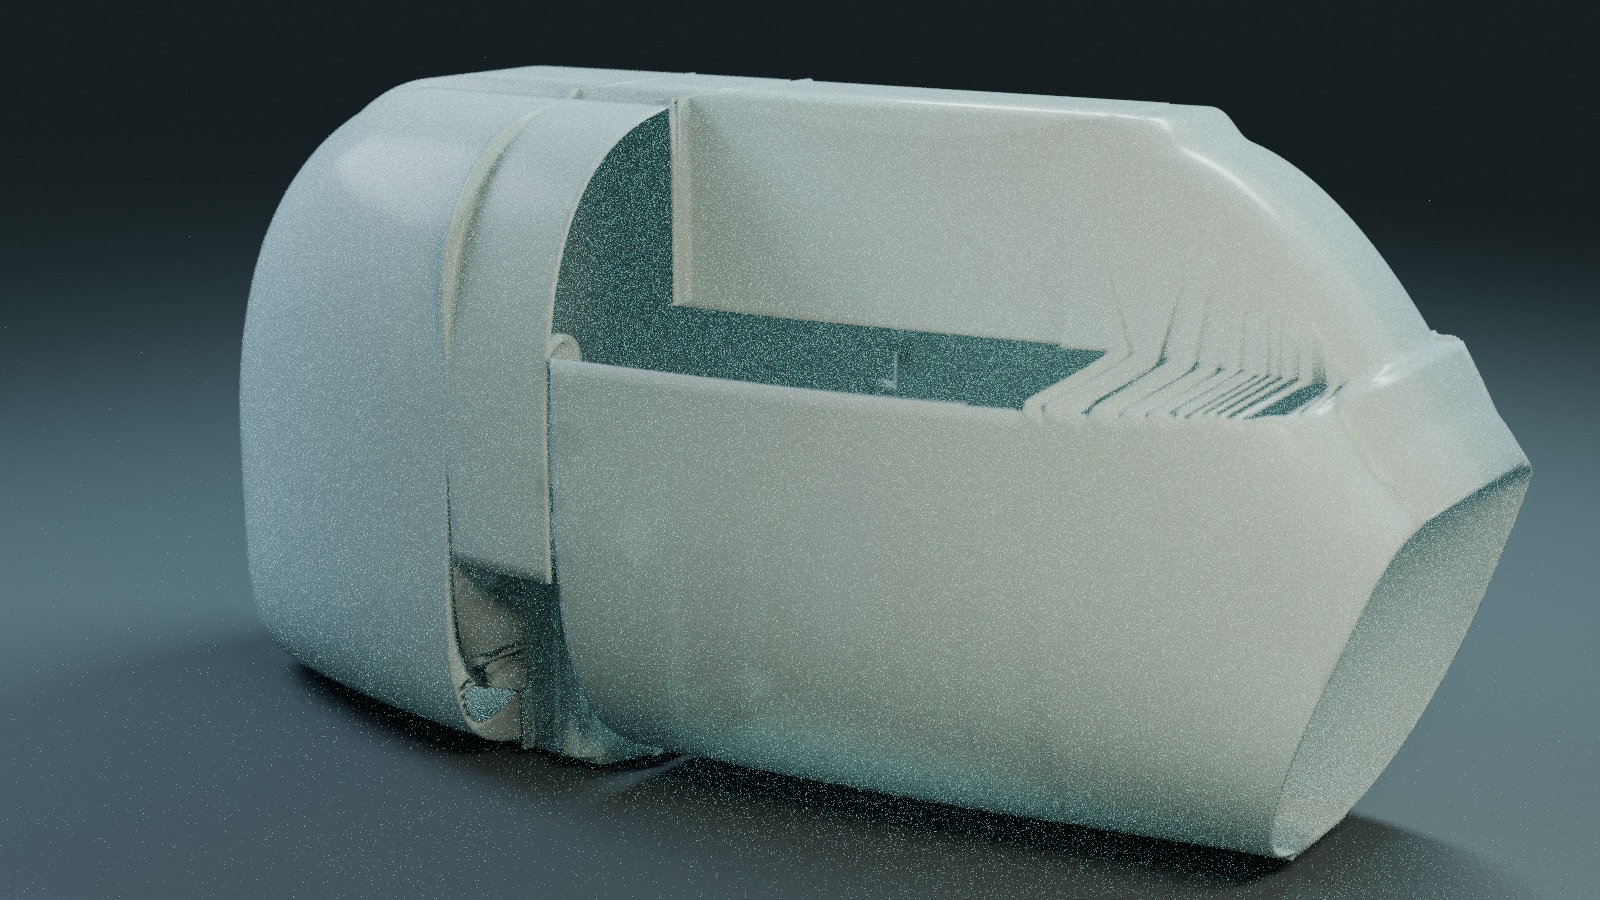
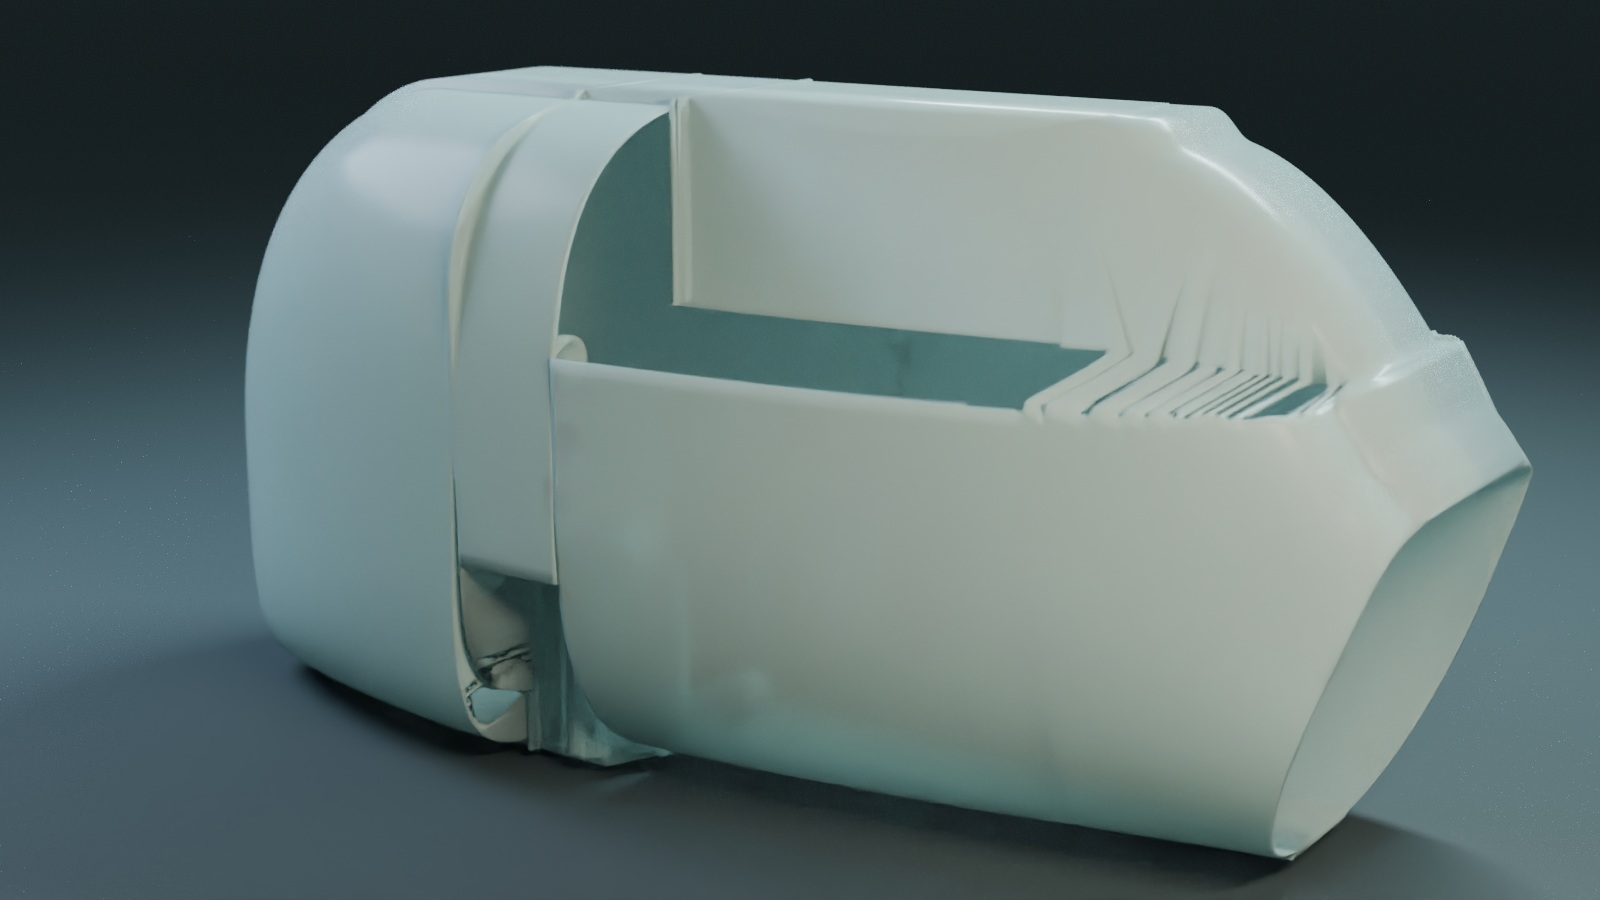
Register the printable shell halves at their mating faces

diff --git a/birth-in-water/production/shell_plate.py b/birth-in-water/production/shell_plate.py
@@ -1,5 +1,5 @@
 """From repository root: blender -b -P birth-in-water/production/shell_plate.py"""
-import bpy, math
+import bpy, math, os
 from pathlib import Path
 from mathutils import Vector, Matrix
 root = Path(__file__).resolve().parents[2]
@@ -21,7 +21,10 @@ for name,sign in [('head',1),('tail',-1)]:
  obj=bpy.context.object
  # Print Z is the length axis. Both parts were laid on their docking face.
  mat=Matrix(((0,0,sign,0),(0,-sign,0,0),(1,0,0,0),(0,0,0,1)))
- obj.matrix_world=mat @ Matrix.Diagonal(Vector((.001,.001,.001,1)))
+ # Tail alignment pins extend 4 mm closer to the print bed than the docking ring.
+ # Registration is to the ring plane; the first optical rushes used bed-plane registration.
+ offset=.004 if name=="tail" and os.getenv("BNM_PRINT_BED_ALIGNMENT")!="1" else 0
+ obj.matrix_world=Matrix.Translation((offset,0,0)) @ mat @ Matrix.Diagonal(Vector((.001,.001,.001,1)))
  obj.data.materials.append(resin)
  for poly in obj.data.polygons:poly.use_smooth=True
 bpy.ops.mesh.primitive_plane_add(size=200,location=(0,0,-.175))

diff --git a/birth-in-water/studies/camera-report.md b/birth-in-water/studies/camera-report.md
@@ -56,3 +56,11 @@ The VISAP catalogue describes touch-assisted participation and the physical/digi
 ### The touch mechanism in the later documentation
 
 The 150-second *Born, Not Made* film embedded on the artist's project page is more specific than the exhibition catalogue. At 00:44.1 the artist's annotated frame shows a hand on the mother and describes capacitive touch increasing pump drive to speed release. This is documentation of a particular touch-assisted implementation. It gives a defensible gallery label: “In this version, touch changes the pump drive.” The source supplies no pressure trace, response latency, heartbeat measurement, visitor outcome or evidence that the simple printable shell in the optical test uses the same electronics. The 2025 overhead take is separately documented as phone-initiated. Keep these material histories distinct. [Artist's project page, third embedded film](https://ruipengwang.space/born-not-made) · [VISAP catalogue](https://visap.net/2026/artwork-4.html)
+
+### Camera test for a new physical shoot
+
+In the first take the thresholded gap grows from 7 to 34 pixels in 0.30 s on a 480-pixel-wide analysis image. That average change is roughly 90 pixels/s. At that scale a 1/60 s exposure would span about 1.5 pixels of gap change during that sampled interval. This is an estimate from the existing pictures. No shutter metadata or calibrated physical velocity was recovered.
+
+Keep the uninterrupted wide camera at the gallery viewing height and show a fixed glass corner. Use a separate locked close camera pointed close to the pane normal, at the height of the mouth. For a new test, try 60 fps and 1/125 s on that camera, increasing light or opening the lens as needed. Verify focus through filled glass with a temporary scale placed at the release depth. Record that scale, then remove it before the take. Set exposure and white balance from the actual light. Test the lamps for banding at the chosen shutter before admitting visitors. The close camera can preserve more samples around the gap while the wide view holds the full duration.
+
+Before a cycle, record the pump alone, room tone at the seated ear and a brief common audiovisual sync cue. Document the operator command and the time it occurred if it will be discussed publicly. Continue recording after the child moves beyond the close view. Keep the older body and whoever performs the reset in a wide frame, subject to consent. The proposed shot list does not establish how much control or agency caused any past movement.

diff --git a/birth-in-water/studies/optics.md b/birth-in-water/studies/optics.md
@@ -21,3 +21,9 @@ The plate and moving studies use Blender Cycles. Early builds lacked integrated 
 The [wide view](../media/water-surface-rush.mp4) contains 96 consecutive rendered frames. The [close lighting test](../media/rim-lighting-rush.mp4) contains 24 consecutive frames. The [bounded dispersive surface](../media/dispersive-rim-rush.mp4) contains 36 consecutive frames, 1.5 s at 24 fps. Only the last example uses the finite-depth mode calculation. Its native 720 × 405 picture is padded by one scan line for H.264. Compare the [six sampled images](dispersive-review.jpg) with the flat-surface control above. The difference reads at the lip; the documentary shot remains much stronger for seeing the motion of the two bodies.
 
 The [frame ledger](render-ledger.csv) records completion times, hashes and Blender render time for the 156 frames in the three rushes, plus the matched control and six gallery renders. The median frame times were 13.29 s for the wide test, 64.83 s for the close lighting test, and 25.64 s for the dispersive test. Jobs overlapped. Summing these times would overstate elapsed work.
+
+## Registration of the two printable halves
+
+A mesh-plane check identified a 4 mm difference between print-bed and mating-face registration. On the head the main docking face is at STL z = 0. On the tail the two projecting pin tips reach z = 0, while the docking face, with approximately 5,380 mm² of coplanar triangle area, is at z = 4 mm. The corrected scene translates the tail 4 mm toward the head after rotating the print axes into the body frame. The head and lip retain their original positions.
+
+The initial wide and rim rushes, the flat-surface comparison and the six room visualisations used print-bed registration. The offset is visible in a seam close-up. The revised plate uses mating-face registration. Reproduce the earlier optical tests with BNM_PRINT_BED_ALIGNMENT=1. No gallery clearance or prototype fit was measured from this rendering.

diff --git a/birth-in-water/studies/qa-2026-11-28.md b/birth-in-water/studies/qa-2026-11-28.md
@@ -36,3 +36,5 @@ The revised open-caption export identifies all seven generations and the effect 
 In the geometry record, 96 wide frames, 24 close-light frames and 36 dispersive frames are available as downloadable rushes. The [frame ledger](render-ledger.csv) records actual output timestamps and hashes. All three moving tests are silent. The documentary film and its separately mixed soundtrack remain the exhibition study's primary moving image.
 
 A question for the next edit is what remains after the small body leaves the shot. The film documents an operator's bench work, the actual opening and the digital population. It does not show a gallery attendant retrieving the child or record a real reset duration. Treat any reset choreography as an exhibition proposal until an appropriate recording or witnessed rehearsal is available. When comparing the two versions of the room, check whether the east-wall image costs the seated viewer too much of the relation between the tank and population.
+
+At 02:32 UTC the revised open-caption MP4 was downloaded from commit 3b55665 and decoded. Its checksum matched the local export. A mobile-browser download also matched. At 02:34 UTC the revised 1600 × 900 shell plate used mating-face registration for the tail. Its SHA-256 is c9241c77b352761eb4d7da9e5387a91056f0dafad65d0f5733b91b7fc97372e7. Earlier optical rushes use the separate print-bed registration described in the camera report.
